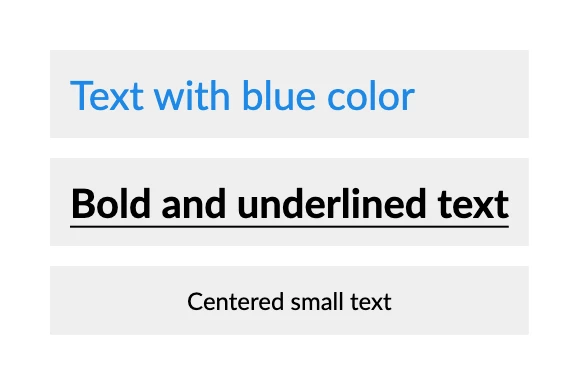
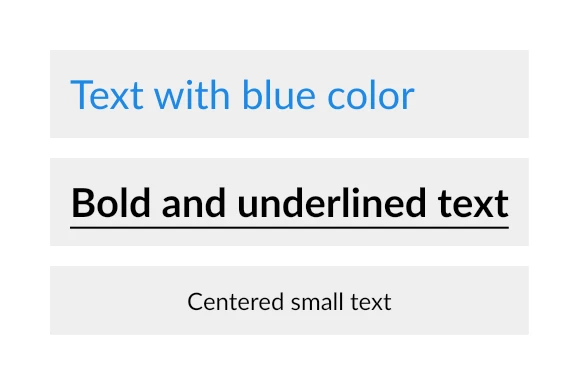
Include text basics examples and describe their images

diff --git a/docs/snippets/text/customization.cs b/docs/snippets/text/customization.cs
@@ -1,0 +1,24 @@
+.Column(column =>
+{
+    column.Spacing(10);
+
+    column.Item()
+        .Element(CellStyle)
+        .Text("Text with blue color")
+        .FontColor(Colors.Blue.Darken1);
+
+    column.Item()
+        .Element(CellStyle)
+        .Text("Bold and underlined text")
+        .Bold()
+        .Underline();
+
+    column.Item()
+        .Element(CellStyle)
+        .Text("Centered small text")
+        .FontSize(12)
+        .AlignCenter();
+
+    static IContainer CellStyle(IContainer container) =>
+        container.Background(Colors.Grey.Lighten3).Padding(10);
+});

diff --git a/docs/snippets/text/hyperlink.cs b/docs/snippets/text/hyperlink.cs
@@ -1,0 +1,14 @@
+.Text(text =>
+{
+    var hyperlinkStyle = TextStyle.Default
+        .FontColor(Colors.Blue.Medium)
+        .Underline();
+
+    text.Span("To learn more about QuestPDF, please visit its ");
+    text.Hyperlink("homepage", "https://www.questpdf.com/").Style(hyperlinkStyle);
+    text.Span(", ");
+    text.Hyperlink("GitHub repository", "https://github.com/QuestPDF/QuestPDF").Style(hyperlinkStyle);
+    text.Span(" and ");
+    text.Hyperlink("NuGet package page", "https://www.nuget.org/packages/QuestPDF").Style(hyperlinkStyle);
+    text.Span(".");
+});

diff --git a/docs/snippets/text/rich.cs b/docs/snippets/text/rich.cs
@@ -1,0 +1,15 @@
+container
+    .Text(text =>
+    {
+        text.AlignCenter();
+
+        text.Span("The ");
+        text.Span("chemical formula").Underline();
+        text.Span(" of ");
+        text.Span("sulfuric acid").BackgroundColor(Colors.Amber.Lighten3);
+        text.Span(" is H");
+        text.Span("2").Subscript();
+        text.Span("SO");
+        text.Span("4").Subscript();
+        text.Span(".");
+    });

diff --git a/docs/snippets/text/basic.cs b/docs/snippets/text/basic.cs
@@ -1,0 +1,2 @@
+container
+    .Text("Sample text");

diff --git a/docs/api-reference/text/basics.md b/docs/api-reference/text/basics.md
@@ -4,68 +4,26 @@
 
 In most cases, text content can be added using the following shorthand. The text will inherit the default style.
 
-```csharp
-container
-    .Text("Hello, World!");
-```
+<<< @/snippets/text/basic.cs{csharp}
 
-![example](/api-reference/text-basic.webp)
+![Without any styling, the text uses the default style: "Sample text" in regular black letters.](/api-reference/text-basic.webp){.example}
 
 ## Customization
 
 The `Text` method returns a descriptor that allows further customization of the text style.
 
-```csharp{7-8,12-14,18-20}
-.Column(column =>
-{
-    column.Spacing(10);
+<<< @/snippets/text/customization.cs{7-8,12-14,18-20 csharp}
 
-    column.Item()
-        .Element(CellStyle)
-        .Text("Text with blue color")
-        .FontColor(Colors.Blue.Darken1);
-
-    column.Item()
-        .Element(CellStyle)
-        .Text("Bold and underlined text")
-        .Bold()
-        .Underline();
-
-    column.Item()
-        .Element(CellStyle)
-        .Text("Centered small text")
-        .FontSize(12)
-        .AlignCenter();
-
-    static IContainer CellStyle(IContainer container) =>
-        container.Background(Colors.Grey.Lighten3).Padding(10);
-});
-```
-
-![example](/api-reference/text-basic-descriptor.webp)
+![Three grey boxes: the first text is blue, the second is bold and underlined, and the third is smaller and centred in its box.](/api-reference/text-basic-descriptor.webp){.example}
 
 
 ## Rich text formatting
 
 It is also possible to format specific parts of the text content using spans:
 
-```csharp{5,7,9,11}
-container
-    .Text(text =>
-    {
-        text.Span("The ");
-        text.Span("chemical formula").Underline();
-        text.Span(" of ");
-        text.Span("sulfuric acid").BackgroundColor(Colors.Amber.Lighten3);
-        text.Span(" is H");
-        text.Span("2").Subscript();
-        text.Span("SO");
-        text.Span("4").Subscript();
-        text.Span(".");
-    });
-```
+<<< @/snippets/text/rich.cs{7,9,11,13 csharp}
 
-![example](/api-reference/text-rich.webp)
+![One sentence with mixed formatting: "chemical formula" is underlined, "sulfuric acid" has a yellow highlight, and the 2 and 4 in H2SO4 are subscript.](/api-reference/text-rich.webp){.example}
 
 
 ## Typography pattern
@@ -121,22 +79,7 @@ container
 
 Hyperlink is a clickable text that redirects the user to a specific webpage.
 
-```csharp{8,10,12}
-.Text(text =>
-{
-    var hyperlinkStyle = TextStyle.Default
-        .FontColor(Colors.Blue.Medium)
-        .Underline();
-
-    text.Span("To learn more about QuestPDF, please visit its ");
-    text.Hyperlink("homepage", "https://www.questpdf.com/").Style(hyperlinkStyle);
-    text.Span(", ");
-    text.Hyperlink("GitHub repository", "https://github.com/QuestPDF/QuestPDF").Style(hyperlinkStyle);
-    text.Span(" and ");
-    text.Hyperlink("NuGet package page", "https://www.nuget.org/packages/QuestPDF").Style(hyperlinkStyle);
-    text.Span(".");
-});
-```
+<<< @/snippets/text/hyperlink.cs{8,10,12 csharp}
 
 <object data="/api-reference/text-hyperlink.pdf" type="application/pdf" class="pdf-viewer">
   <p>Unable to display PDF file. <a href="/api-reference/text-hyperlink.pdf">Download</a> instead.</p>
